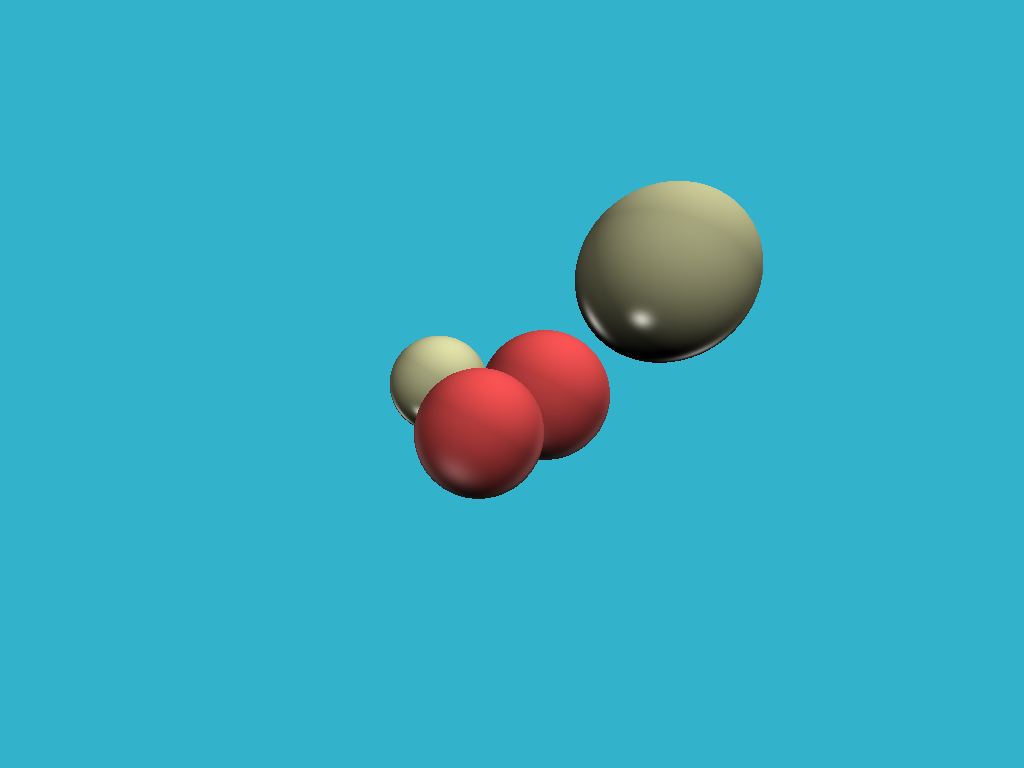
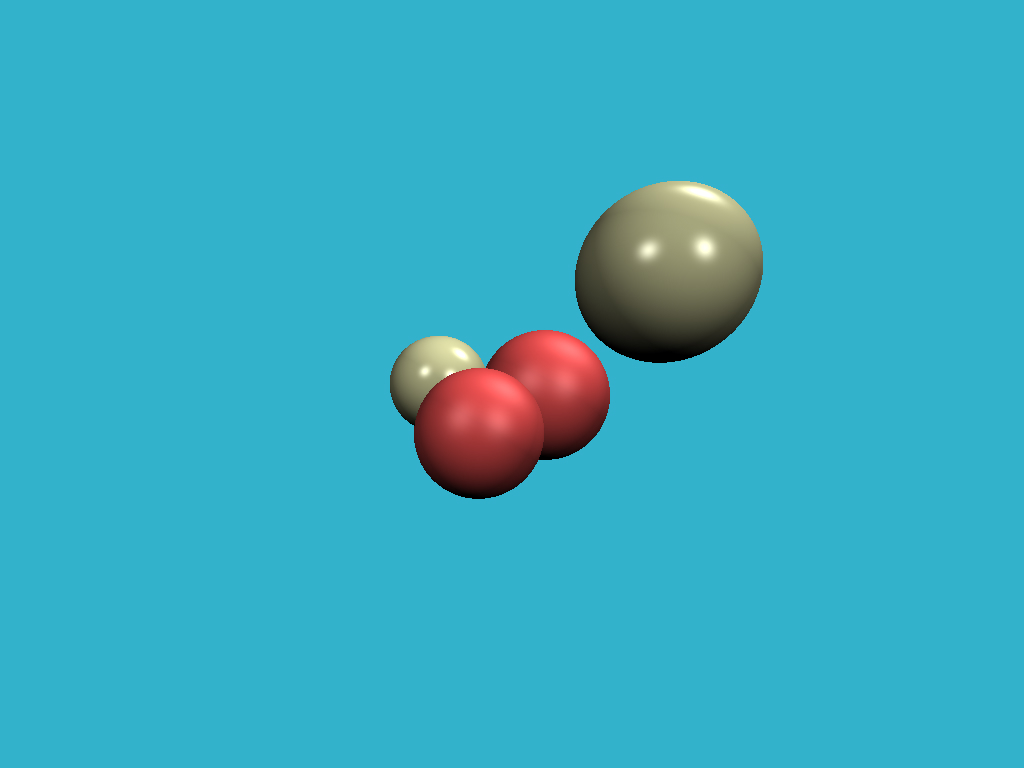
specular update

diff --git a/src/tinyRayTracer.cpp b/src/tinyRayTracer.cpp
@@ -56,7 +56,7 @@ struct Sphere
 
 Vec3f reflect(const Vec3f& Lhat, const Vec3f& Nhat)
 {
-	return Nhat* 2.f * (Lhat * Nhat)-Lhat;
+	return Lhat-Nhat* 2.f * (Lhat * Nhat);
 }
 
 bool sceneIntersect(const Vec3f& orig, Vec3f& dir, std::vector<Sphere>& spheres, Vec3f& hit, Vec3f& N, Material& mat)
